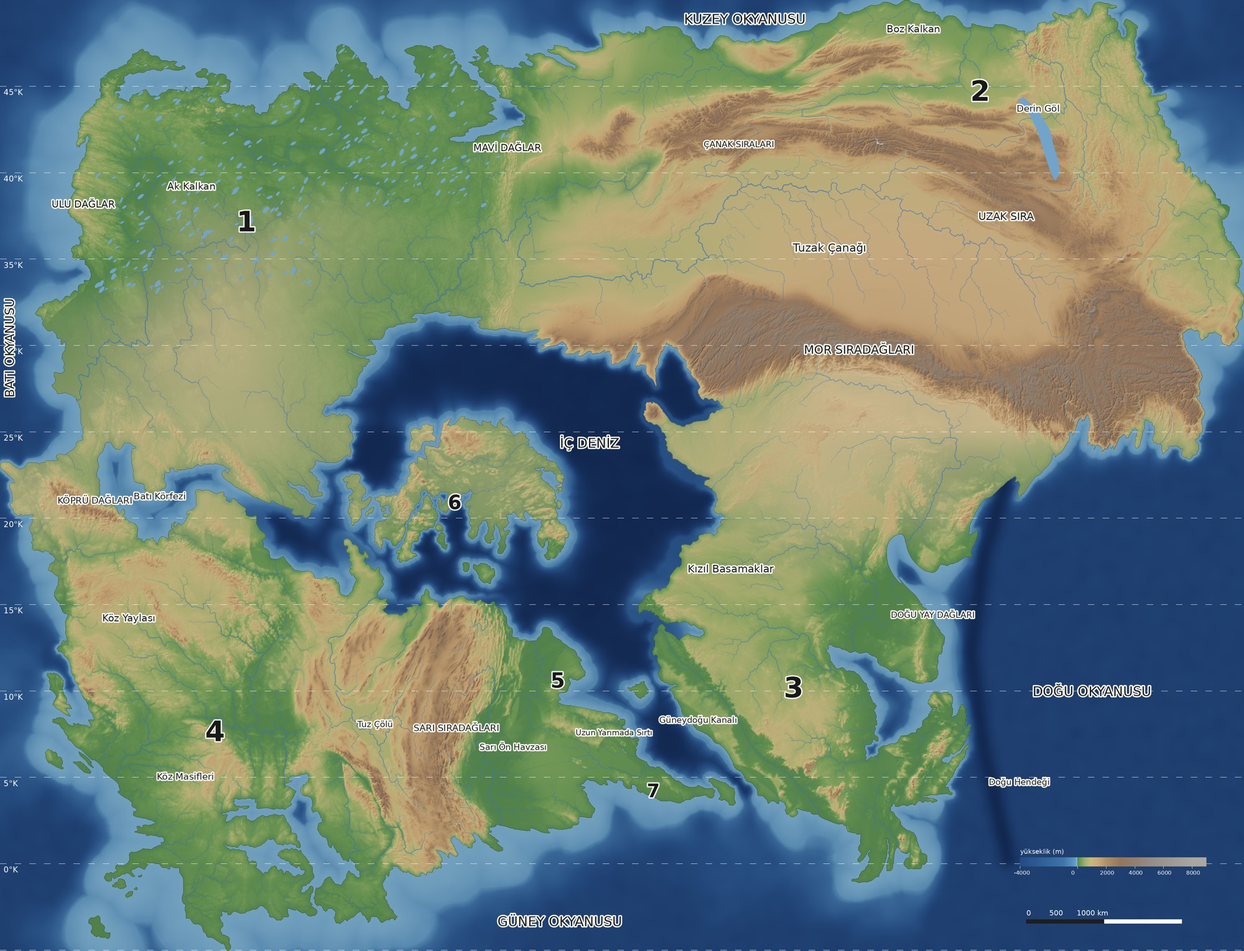
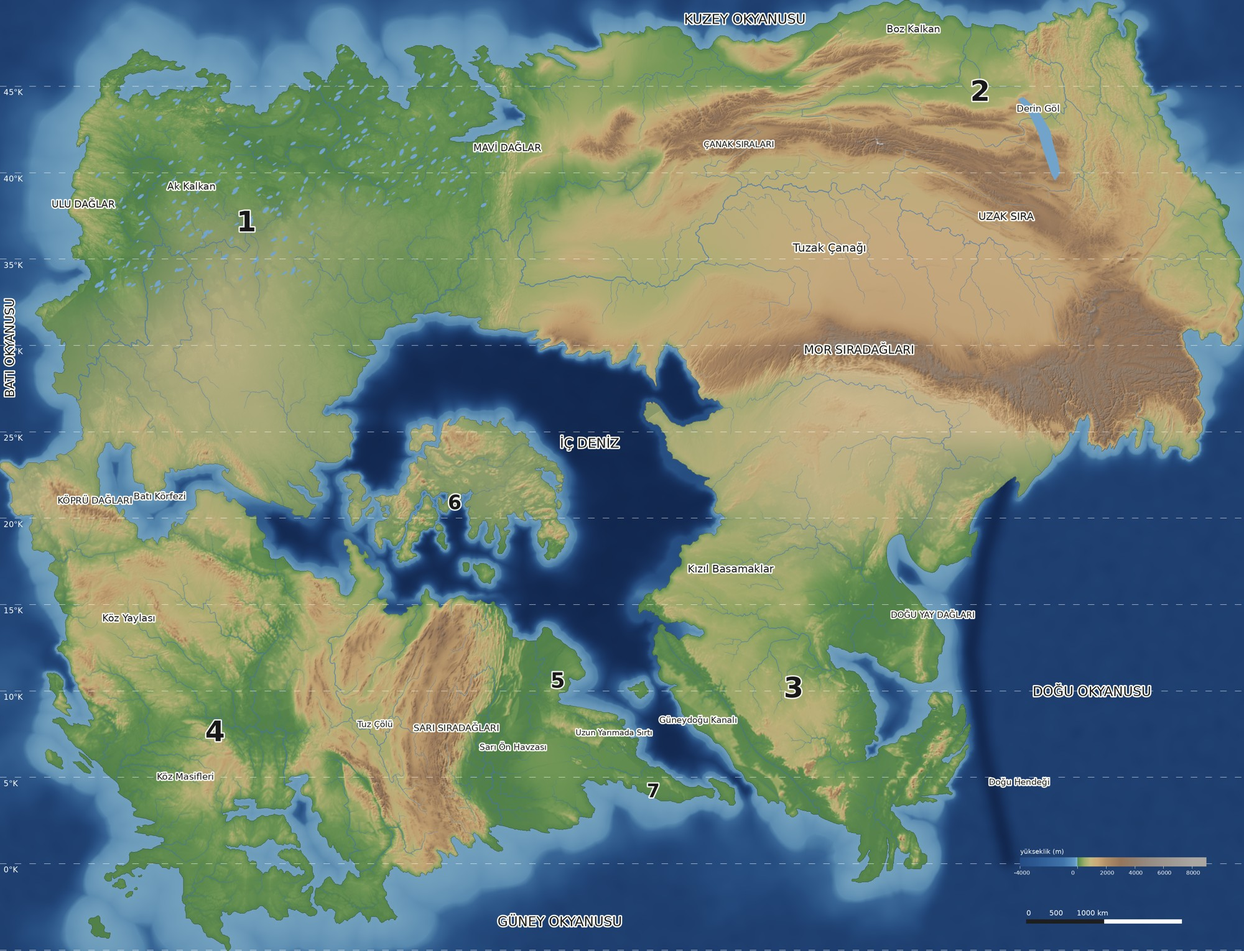
Tarih: Mor Sıradağları batıya doğru incelir (çarpışma batı uca geç ulaştı)
Claude-Session: https://claude.ai/code/session_01TrTgWsQ7k9npTcPJkL6aYQ

Changed region(s): [[0.465, 0.2765, 0.682, 0.4301], [0.496, 0.4301, 0.527, 0.4608]]

diff --git a/tarih/benzer.py b/tarih/benzer.py
@@ -52,7 +52,7 @@ KARSILIK = [
         "nokta": [(1720, 670, 77.0, 36.6), (1500, 614, 81.5, 36.0), (1250, 565, 86.5, 36.4), (1030, 600, 90.5, 37.8),
                   (1350, 230, 81.0, 42.5), (1020, 260, 88.5, 43.0), (1030, 420, 90.3, 40.4)],
         "bolge": [(845, 60), (1550, 40), (1700, 150), (1780, 450), (2000, 560), (2000, 700), (1720, 640), (1500, 580), (1300, 530),
-                  (1120, 560), (1040, 620), (900, 640), (855, 560)],
+                  (1120, 520), (1040, 560), (900, 600), (855, 560)],
     },
     {   # Mor Sıradağları: yalnız dar sıra şeridi; karşılığı aynalanmış Himalaya'nın ön kuşağı (arkasındaki yayla dahil değil),
         # yükseklik 6 km dolayına ölçekli. Çanak bölgesinin üstüne baskın yazılır.
@@ -61,7 +61,7 @@ KARSILIK = [
         "etiket": [("MOR SIRADAĞLARI", 86.5, 28.6, 19)],
         "nokta": [(1110, 595, 95.0, 29.6), (1300, 565, 88.1, 27.8), (1500, 614, 83.5, 28.7), (1620, 645, 79.6, 30.9),
                   (1715, 674, 74.6, 35.2)],
-        "bolge": [(1080, 575), (1150, 525), (1300, 527), (1500, 578), (1715, 638), (1900, 668), (1900, 760), (1715, 735),
+        "bolge": [(1080, 600), (1150, 565), (1300, 548), (1500, 578), (1715, 638), (1900, 668), (1900, 760), (1715, 735),
                   (1500, 675), (1300, 628), (1150, 628), (1060, 660)],
     },
     {   # 3: Ganj ovası = Mor Ön Ovası, Dekkan = Kızıl Basamaklar, Batı Gatlar = kanal omzu
@@ -329,6 +329,18 @@ def bilesik():
             toplam += wb * z; wtop += wb
     z = toplam / np.maximum(wtop, 1e-6)
     # Tarım dokusu tasarlanan alanın tamamında gerekir
+    # Mor'un batı ucu: çarpışma oraya geç ve yavaş ulaştı (35 MYÖ), kabuk az kalınlaştı; kuşak batıya doğru incelir ve alçalır
+    im = Image.new("F", (nx, ny), 0.0)
+    ImageDraw.Draw(im).polygon([(x * s, y * s) for x, y in [(960, 420), (1380, 420), (1380, 700), (960, 700)]], fill=1.0)
+    Wb = ndimage.gaussian_filter(np.asarray(im), 70 / (O.KM_PX / s))
+    fx = np.clip((np.arange(nx) / s - 1020) / (1380 - 1020), 0, 1)[None, :]
+    f = 0.42 + 0.58 * fx * fx * (3 - 2 * fx)
+    z = np.where(z > 400, 400 + (z - 400) * (1 - Wb * (1 - f)), z)
+    # sıranın kuzeyindeki loba çanak tabanı gibi davran: doku kalır, kabartı dörtte bire iner
+    im = Image.new("F", (nx, ny), 0.0)
+    ImageDraw.Draw(im).polygon([(x * s, y * s) for x, y in [(1040, 420), (1320, 420), (1320, 540), (1150, 560), (1040, 590)]], fill=1.0)
+    Wl = ndimage.gaussian_filter(np.asarray(im), 40 / (O.KM_PX / s))
+    z = np.where(z > 850, 850 + (z - 850) * (1 - 0.75 * Wl), z)
     if TASARIM.get("etkin"):
         k_t = TASARIM["doku"]
         im = Image.new("L", (nx, ny), 0)
